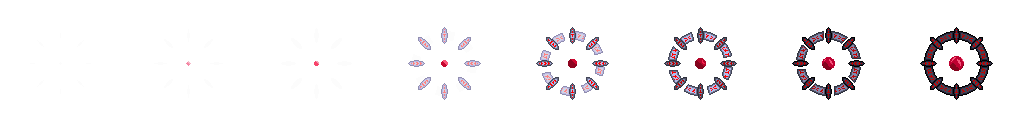
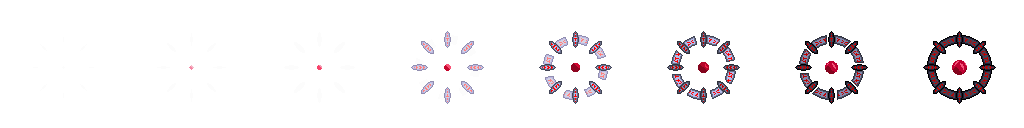
Added a start for handling status effects

diff --git a/VampireIdleGame/EnemyStatusEffectSystem.cpp b/VampireIdleGame/EnemyStatusEffectSystem.cpp
@@ -1,0 +1,41 @@
+#include "EnemyStatusEffectSystem.h"
+#include <EntityManager.h>
+#include "EnemyData.h"
+#include "Health.h"
+#include "StatusEffectsAttributes.h"
+#include <BloodTime.h>
+
+using namespace Bloodforge;
+
+void EnemyStatusEffectSystem::OnUpdate()
+{
+	EntityManager& entityManager = EntityManager::GetInstance();
+	StatusEffectsAttributes& statusEffectAttributes = entityManager.GetOrCreateFirstEntityWithComponents<StatusEffectsAttributes>().GetComponent<StatusEffectsAttributes>();
+	EntityQueryResult<Health, EnemyData> result = entityManager.QueryEntities<Health, EnemyData>();
+	for (EntityView<Health, EnemyData>& view : result.EntityViews)
+	{
+		EnemyData& enemyData = view.GetComponent<EnemyData>();
+		if (enemyData.AppliedStatusEffects.size() == 0) continue;
+		Health& health = view.GetComponent<Health>();
+		for (StatusEffectData& statusEffectData : enemyData.AppliedStatusEffects)
+		{
+			statusEffectData.TimeTracker -= BloodTime::GetInstance().DeltaTime;
+			statusEffectData.TimeBeforeRemoval -= BloodTime::GetInstance().DeltaTime;
+			switch (statusEffectData.Type)
+			{
+			case StatusEffectTypes::Fire:
+				if (statusEffectData.TimeTracker > 0.0f) continue;
+				health.Damage(statusEffectAttributes.BurnDamagePerTick);
+				statusEffectData.TimeTracker += statusEffectAttributes.BurnTickDelay;
+				break;
+			}
+		}
+
+		// Remove expired status effects
+		enemyData.AppliedStatusEffects.erase(std::remove_if(enemyData.AppliedStatusEffects.begin(), enemyData.AppliedStatusEffects.end(),
+			[](const StatusEffectData& effect)
+			{
+				return effect.TimeBeforeRemoval <= 0.0f;
+			}), enemyData.AppliedStatusEffects.end());
+	}
+}

diff --git a/VampireIdleGame/main.cpp b/VampireIdleGame/main.cpp
@@ -28,14 +28,25 @@ void LoadFunction()
 		entityManager.AddComponent<Bloodforge::SpriteComponent>(heartEntityId);
 		Bloodforge::SpriteAnimatorComponent* animator = entityManager.AddComponent<Bloodforge::SpriteAnimatorComponent>(heartEntityId);
 
-		Bloodforge::AnimationData animData;
-		animData.Texture = resourceManager.LoadTexture("Heart/Idle.png");
-		animData.FrameTime = 0.06f;
-		animData.ShouldLoop = true;
-		animData.NumberOfFrames = 15;
-		animator->AddAnimation(CreateId("IdleAnim"), animData);
+		Bloodforge::AnimationData animDataAppear;
+		animDataAppear.Texture = resourceManager.LoadTexture("Heart/Appear.png");
+		animDataAppear.FrameTime = 0.06f;
+		animDataAppear.ShouldLoop = false;
+		animDataAppear.NumberOfFrames = 8;
+		animator->AddAnimation(CreateId("AppearAnim"), animDataAppear);
+		animator->AddAnimationEvent(CreateId("AppearAnim"), [](Bloodforge::SpriteAnimatorComponent& animator)
+			{
+				animator.PlayAnimation(CreateId("IdleAnim"));
+			}, 7, 0.06f);
 
-		animator->PlayAnimation(CreateId("IdleAnim"));
+		Bloodforge::AnimationData animDataIdle;
+		animDataIdle.Texture = resourceManager.LoadTexture("Heart/Idle.png");
+		animDataIdle.FrameTime = 0.06f;
+		animDataIdle.ShouldLoop = true;
+		animDataIdle.NumberOfFrames = 15;
+		animator->AddAnimation(CreateId("IdleAnim"), animDataIdle);
+
+		animator->PlayAnimation(CreateId("AppearAnim"));
 
 		Bloodforge::TransformComponent* transformComp = entityManager.GetComponent<Bloodforge::TransformComponent>(heartEntityId);
 		transformComp->SetLocalPosition(renderer.GetWindowWidth() / 2.0f, renderer.GetWindowHeight() / 2.0f);
@@ -48,8 +59,8 @@ int main(int, char* [])
 	Bloodforge::Bloodforge& engine = Bloodforge::Bloodforge::GetInstance();
 	engine.SetResourcesDirectory("Resources");
 
-	Bloodforge::WindowUtils::SetWindowAlwaysOnTop(true);
-	Bloodforge::WindowUtils::SetWindowBordered(false);
+	Bloodforge::WindowUtils::SetWindowAlwaysOnTop(false);
+	Bloodforge::WindowUtils::SetWindowBordered(true);
 	Bloodforge::WindowUtils::SetWindowFullScreen(false);
 	Bloodforge::WindowUtils::SetWindowSize(350, 350);
 	Bloodforge::WindowUtils::SetWindowTitle("VampireIdleGame");
@@ -58,12 +69,14 @@ int main(int, char* [])
 
 	{
 		Bloodforge::Entity& sceneDataEntity = entityManager.CreateEntity();
+		sceneDataEntity.DontDestroyOnSceneSwitch = true;
 		int entityId = sceneDataEntity.Id;
 		Bloodforge::SceneDataComponent* sceneData = entityManager.AddComponent<Bloodforge::SceneDataComponent>(entityId);
 		sceneData->LoadFunction = LoadFunction;
 
 		Bloodforge::EntityView<Bloodforge::SceneManagingDataComponent> view = entityManager.GetOrCreateFirstEntityWithComponents<Bloodforge::SceneManagingDataComponent>();
 		Bloodforge::SceneManagingDataComponent& sceneManagingData = view.GetComponent<Bloodforge::SceneManagingDataComponent>();
+		entityManager.GetEntity(view.EntityId).DontDestroyOnSceneSwitch = true;
 		sceneManagingData.SceneToLoadDataEntityId = entityId;
 		sceneManagingData.ShouldLoadScene = true;
 	}

diff --git a/VampireIdleGame/StatusEffectsAttributes.h b/VampireIdleGame/StatusEffectsAttributes.h
@@ -1,0 +1,21 @@
+#pragma once
+#include <Component.h>
+
+struct StatusEffectsAttributes final : public Bloodforge::Component<StatusEffectsAttributes>
+{
+	// Burn
+	float BurnDamagePerTick;
+	float BurnTickDelay;
+	float BurnDuration;
+
+	// Stun
+	float StunDuration;
+
+	// Poison
+	float PoisonDamagePerTick;
+	float PoisonTickDelay;
+	float PoisonDuration;
+
+	// Slow
+	float SlowDuration;
+};

diff --git a/VampireIdleGame/EnemyStatusEffectSystem.h b/VampireIdleGame/EnemyStatusEffectSystem.h
@@ -1,0 +1,8 @@
+#pragma once
+#include <System.h>
+
+class EnemyStatusEffectSystem final : public Bloodforge::System
+{
+public:
+	virtual void OnUpdate() override;
+};

diff --git a/VampireIdleGame/EnemySpawningData.h b/VampireIdleGame/EnemySpawningData.h
@@ -1,0 +1,7 @@
+#pragma once
+#include <Component.h>
+
+struct EnemySpawningData final : public Bloodforge::Component<EnemySpawningData>
+{
+
+};

diff --git a/VampireIdleGame/PlayerAttributes.h b/VampireIdleGame/PlayerAttributes.h
@@ -8,8 +8,7 @@ struct PlayerAttributes final : Bloodforge::Component<PlayerAttributes>
 	float RegenerateDelay;
 	float RegenerateAmount;
 
-	// Player equipment?
-	// PLAYER BLOOD
-	// Different blood that gives different stat boosts, dropped by enemies, can be fused together to upgrade quality
+	// BLOOD STONES FOR HEART
+	// Different blood stones that gives different stat boosts, dropped by enemies, can be fused together to upgrade quality
 
 };

diff --git a/VampireIdleGame/EnemyData.h b/VampireIdleGame/EnemyData.h
@@ -7,5 +7,5 @@ struct EnemyData final : public Bloodforge::Component<EnemyData>
 {
 	float MovementSpeed;
 	float AmountOfXPToDrop;
-	std::vector<StatusEffectTypes> AppliedStatusEffects;
+	std::vector<StatusEffectData> AppliedStatusEffects;
 };

diff --git a/Bloodforge/SceneSystemManager.cpp b/Bloodforge/SceneSystemManager.cpp
@@ -122,6 +122,7 @@ namespace Bloodforge
 		sceneManagingDataComp.ShouldLoadScene = false;
 		sceneManagingDataComp.SceneToLoadDataEntityId = -1;
 		sceneDataComp->LoadFunction();
+		sceneManagingDataComp = entityManager.GetFirstEntityWithComponents<SceneManagingDataComponent>()->GetComponent<SceneManagingDataComponent>(); // Need to get again, because reference might be invalid after scene load function
 		sceneManagingDataComp.OnSceneSwitch.Invoke(previousSceneDataEntityId, sceneManagingDataComp.CurrentSceneDataEntityId);
 		for (const std::unique_ptr<System>& system : m_RegisteredSystems)
 		{

diff --git a/VampireIdleGame/StatusEffects.h b/VampireIdleGame/StatusEffects.h
@@ -11,5 +11,6 @@ enum class StatusEffectTypes
 struct StatusEffectData
 {
 	StatusEffectTypes Type;
+	float TimeTracker;
 	float TimeBeforeRemoval;
 };